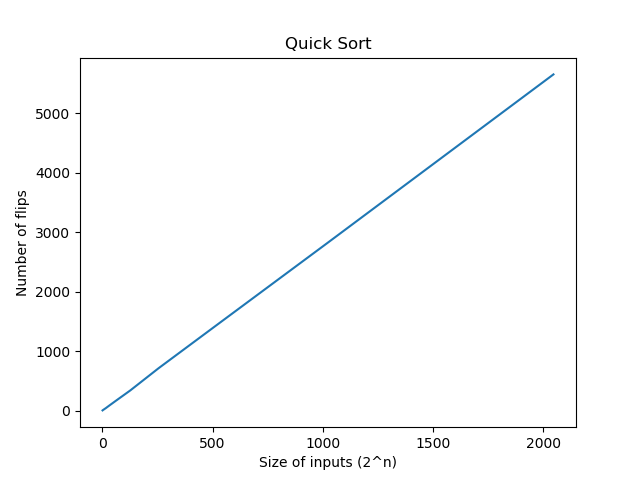
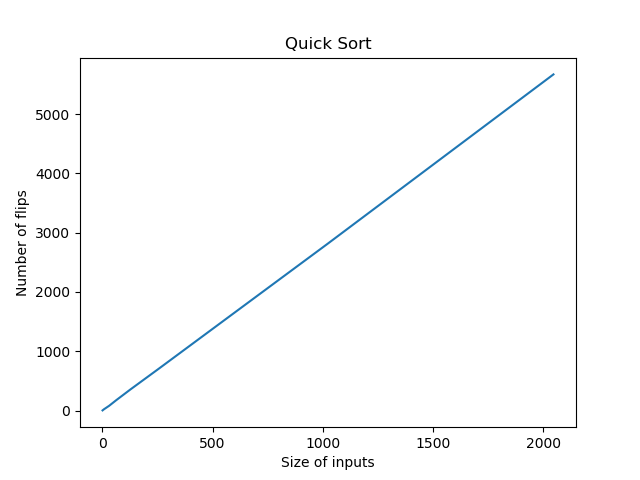
Reworked pictures

diff --git a/Assignments/Assignment_PS7b/Rondini-Cat-PS7b-Q2.py b/Assignments/Assignment_PS7b/Rondini-Cat-PS7b-Q2.py
@@ -70,10 +70,10 @@ def main(argv):
 	fig2, n_squared = plt.subplots()
 
 	n_lgn.plot(list_of_lgn_inputs, list_of_lgn_flips)
-	n_lgn.set(xlabel="Size of inputs (2^n)", ylabel="Number of flips", title="Quick Sort")
+	n_lgn.set(xlabel="Size of inputs", ylabel="Number of flips", title="Quick Sort")
 
 	n_squared.plot(list_of_square_inputs, list_of_square_flips)
-	n_squared.set(xlabel="Size of inputs (2^n)", ylabel="Number of flips", title="Bubble Sort")
+	n_squared.set(xlabel="Size of inputs", ylabel="Number of flips", title="Bubble Sort")
 
 
 	fig1.savefig("BubbleSort.png")
